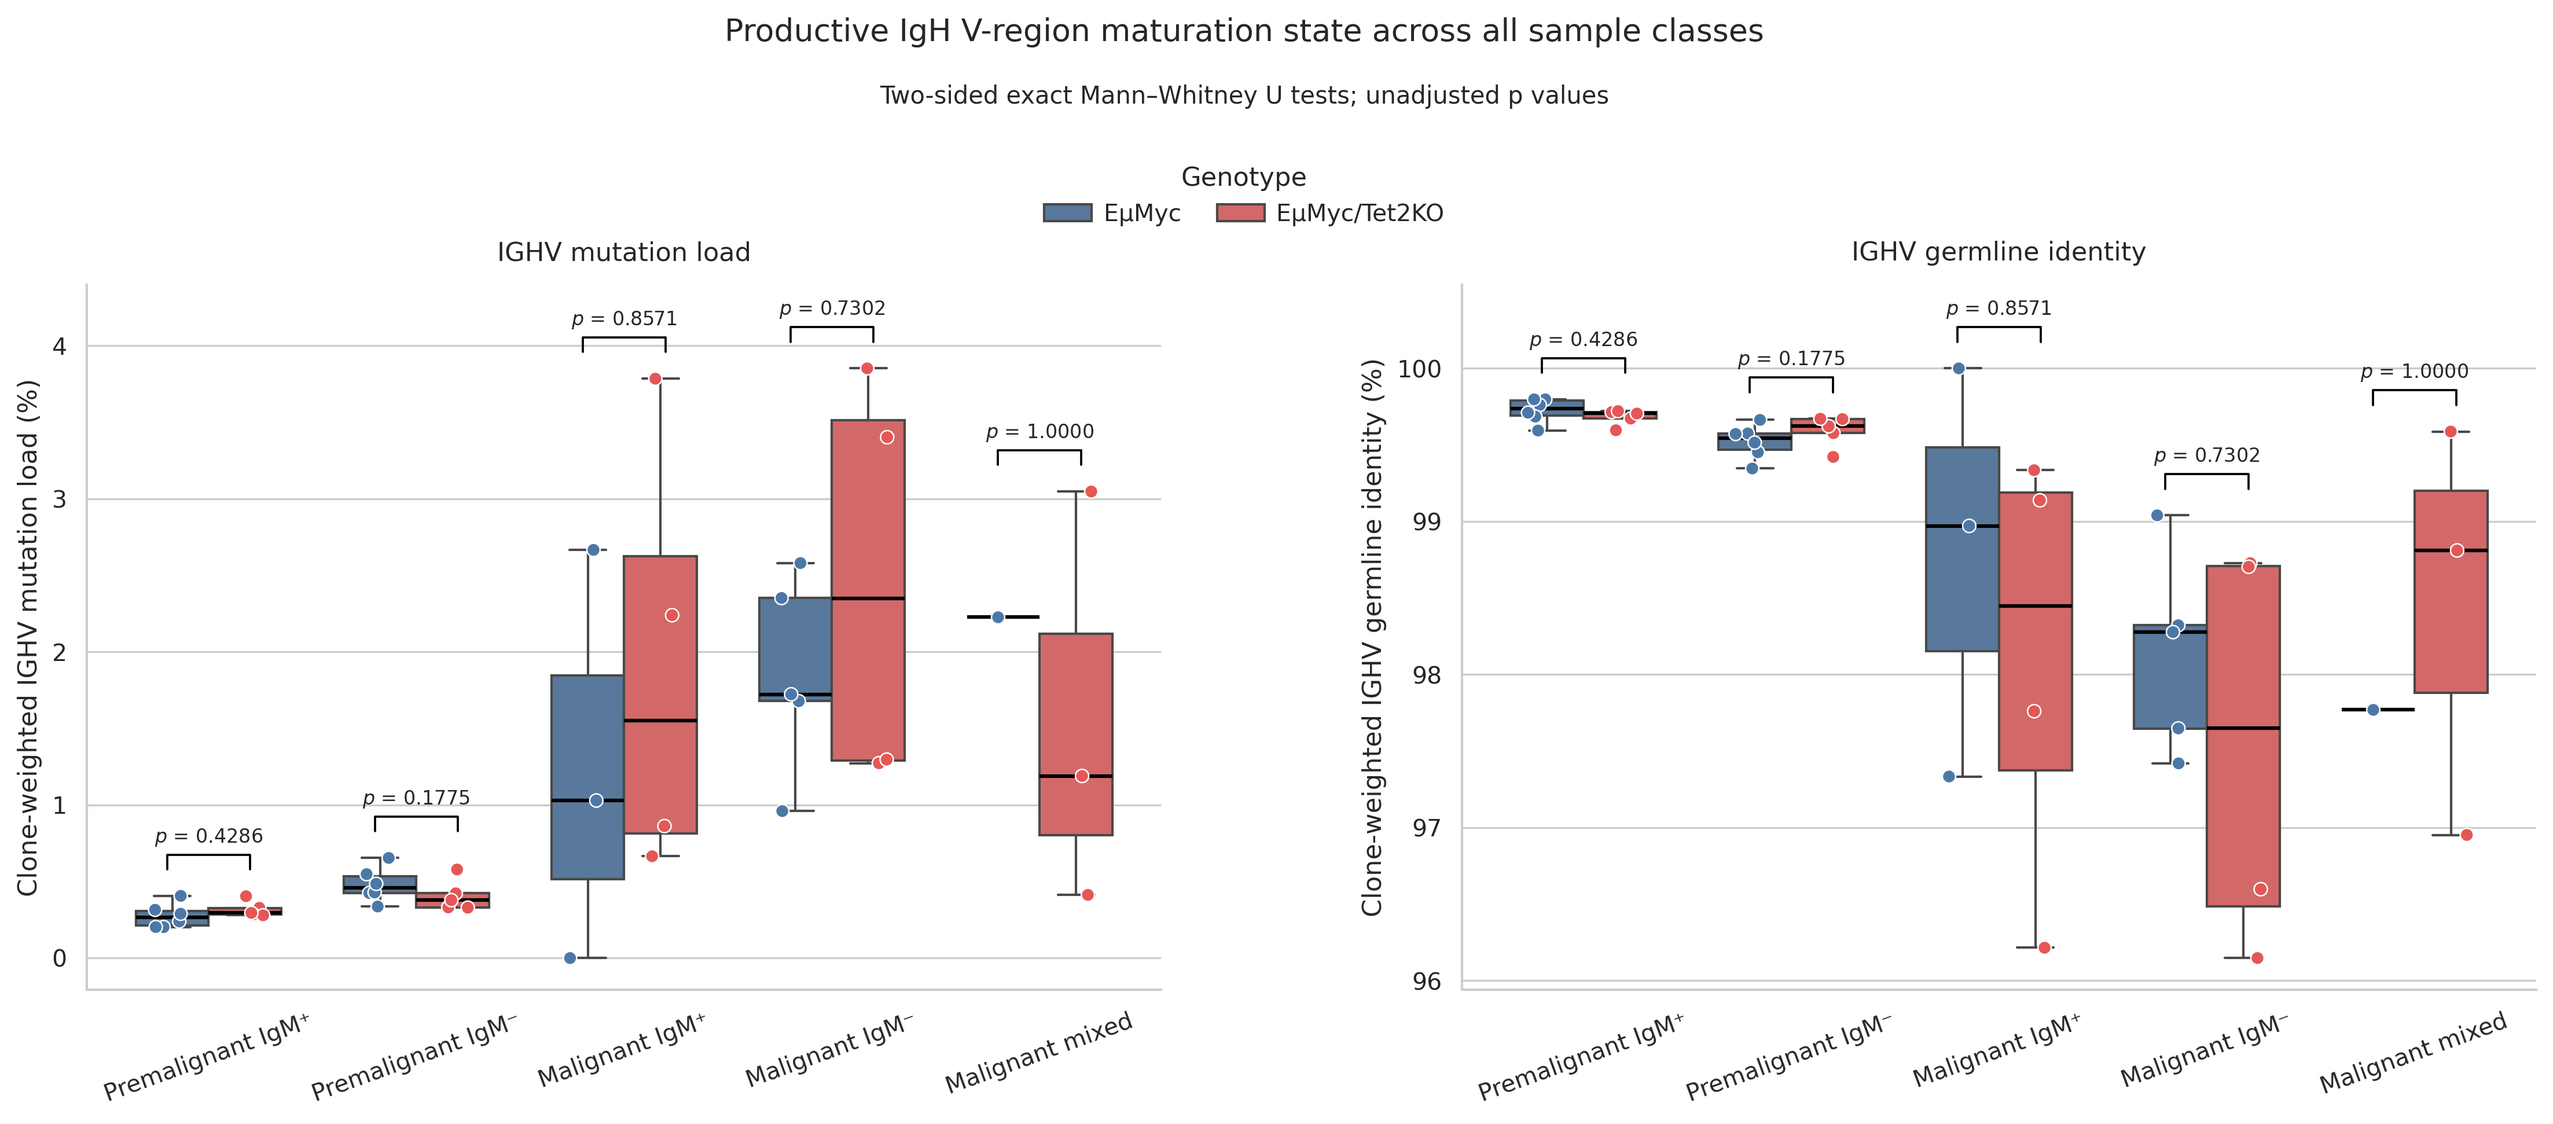
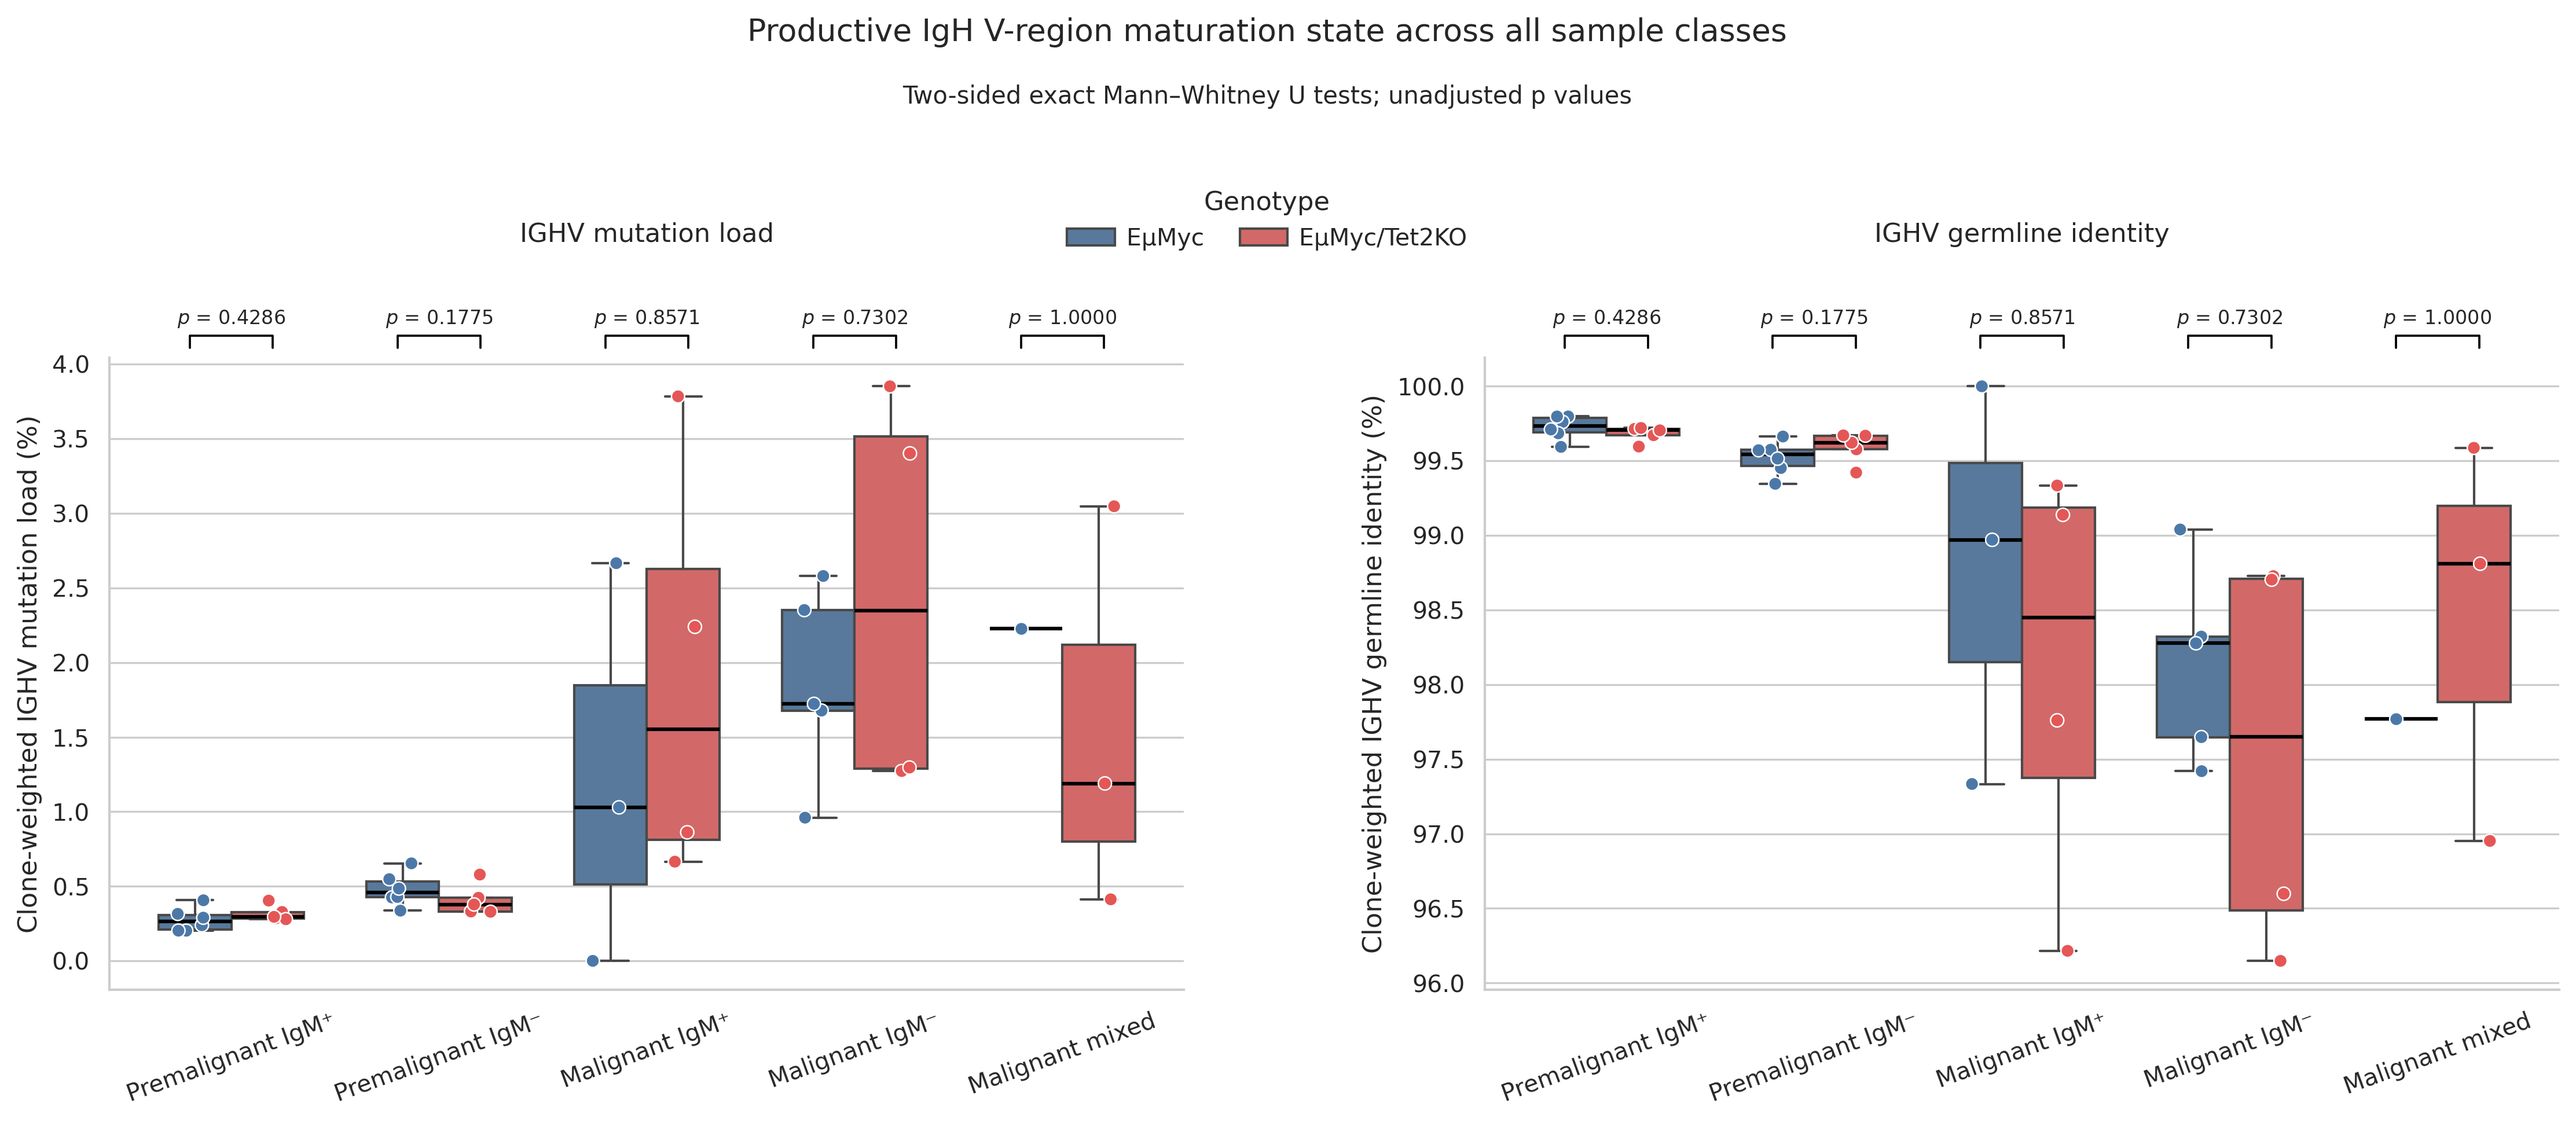
Adapt axes

diff --git a/beatit_paper/plot_productive_ighv_mutational_load_all_groups_with_p_values.py b/beatit_paper/plot_productive_ighv_mutational_load_all_groups_with_p_values.py
@@ -10,6 +10,7 @@ import matplotlib.pyplot as plt
 import numpy as np
 import pandas as pd
 import seaborn as sns
+from matplotlib.transforms import blended_transform_factory
 from scipy.stats import mannwhitneyu
 
 from plot_productive_ighv_mutational_load import COLORS
@@ -40,37 +41,27 @@ def exact_tests(data, metric):
 
 
 def add_p_values(ax, data, metric, tests):
-    """Add one compact genotype-comparison bracket per sample class."""
-    values = data[metric].dropna()
-    span = values.max() - values.min()
-    bracket_height = 0.025 * span
-    offset = 0.045 * span
-    text_offset = 0.012 * span
-    highest = values.max()
-
+    """Add brackets above the axes without changing the data-axis limits."""
+    transform = blended_transform_factory(ax.transData, ax.transAxes)
     for x, sample_class in enumerate(CLASS_ORDER):
-        local = data.loc[data["sample_class"] == sample_class, metric].dropna()
-        bottom = local.max() + offset
-        top = bottom + bracket_height
         ax.plot(
             [x - 0.20, x - 0.20, x + 0.20, x + 0.20],
-            [bottom, top, top, bottom],
+            [1.015, 1.035, 1.035, 1.015],
             color="black",
             linewidth=0.9,
             clip_on=False,
+            transform=transform,
         )
         ax.text(
             x,
-            top + text_offset,
+            1.045,
             f"$p$ = {tests[sample_class].pvalue:.4f}",
             ha="center",
             va="bottom",
             fontsize=8,
+            transform=transform,
+            clip_on=False,
         )
-        highest = max(highest, top + text_offset + 0.06 * span)
-
-    lower, _ = ax.get_ylim()
-    ax.set_ylim(lower, highest)
 
 
 def make_plot(data):
@@ -112,7 +103,7 @@ def make_plot(data):
             ax=ax,
         )
         add_p_values(ax, data, metric, exact_tests(data, metric))
-        ax.set_title(title, pad=10)
+        ax.set_title(title, pad=48)
         ax.set_xlabel("")
         ax.set_ylabel(f"Clone-weighted {title} (%)")
         ax.tick_params(axis="x", rotation=20)
@@ -125,7 +116,7 @@ def make_plot(data):
         labels[:2],
         title="Genotype",
         loc="upper center",
-        bbox_to_anchor=(0.5, 0.875),
+        bbox_to_anchor=(0.5, 0.855),
         ncol=2,
         frameon=False,
         columnspacing=1.5,
@@ -143,7 +134,7 @@ def make_plot(data):
         va="center",
         fontsize=10,
     )
-    fig.subplots_adjust(bottom=0.18, top=0.76, left=0.07, right=0.98, wspace=0.28)
+    fig.subplots_adjust(bottom=0.18, top=0.70, left=0.07, right=0.98, wspace=0.28)
     return fig
 
 
